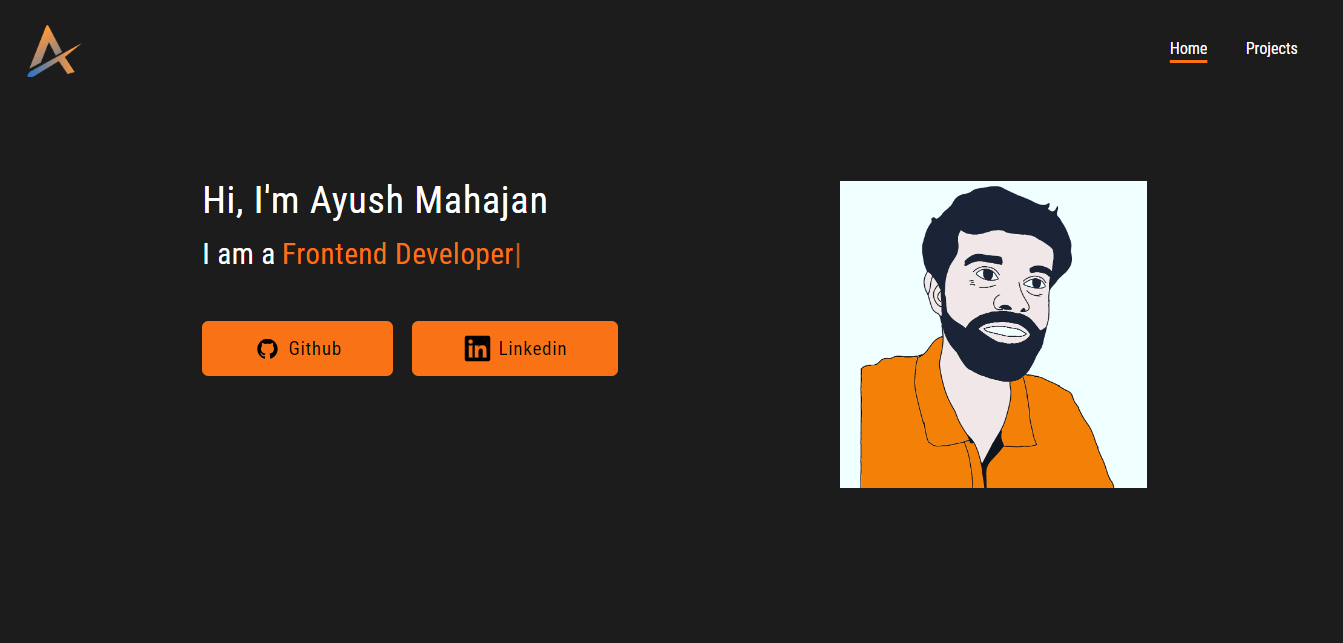
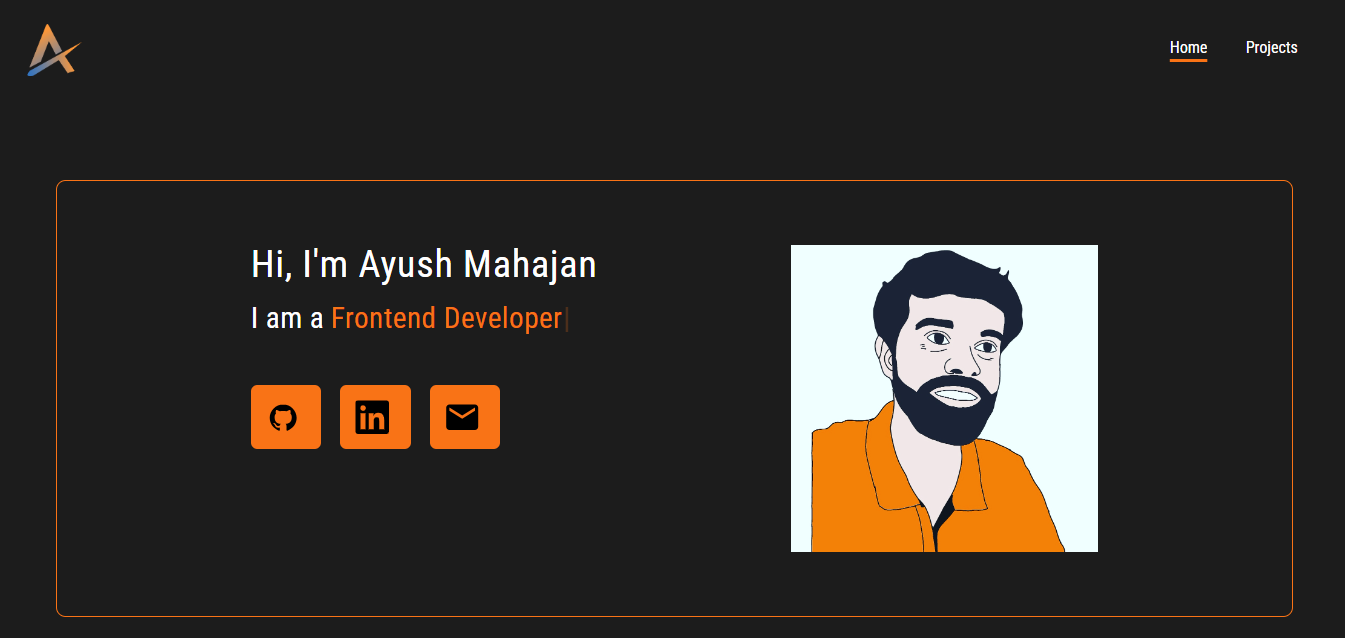
updated the home page and added a project.

diff --git a/src/components/Home.jsx b/src/components/Home.jsx
@@ -1,14 +1,16 @@
-import React from "react";
+import React, { useState } from "react";
 import AvatarImg from "../images/my-image.jpg";
 import Typewriter from "typewriter-effect";
 import { DiGithubBadge } from "react-icons/di";
 import { FaLinkedin } from "react-icons/fa";
+import { MdEmail } from "react-icons/md";
 import efficiencyimg from "../images/efficiency.png";
 import goalsimg from "../images/goals.png";
 import flexibilityimg from "../images/flexibility.png";
 import html from "../images/icons/html-icon.png";
 import css from "../images/icons/css-icon.png";
 import javaScript from "../images/icons/javascript-icon.png";
+import typescript from "../images/icons/typescript-icon.png";
 import react from "../images/icons/react-icon.png";
 import tailwind from "../images/icons/tailwindcss-icon.png";
 import api from "../images/icons/restapi-icon.png";
@@ -18,9 +20,32 @@ import vscode from "../images/icons/vscode-icon.png";
 import firebase from "../images/icons/firebase-icon.png";
 
 export default function Home() {
+  const [hover, setHover] = useState(false)
+  const [copyText, setCopyText] = useState("ayush.97mahajan@gmail.com")
+
+  const onHover = () => {
+    setHover(true)
+  }
+
+  const onHoverOver = () => {
+    setHover(false)
+  }
+
+  const handleClick = (e) => {
+    setCopyText(copyText)
+    console.log(copyText);
+    navigator.clipboard.writeText(copyText)
+
+    const copyEmail = document.createElement("div")
+    copyEmail.classList.add("py-1","px-4", "absolute", "-mt-28", "bg-orange-500", "text-black", "transition", "ease-in", "duration-700", "rounded-lg")
+    copyEmail.textContent = "copied"
+    e.target.appendChild(copyEmail)
+    setTimeout(()=> e.target.removeChild(copyEmail), 1000)
+  }
+  
   return (
     <>
-      <section className="text-white flex justify-evenly mt-24 max-md:flex max-md:flex-col max-md:items-center max-mdp:flex-col max-mdp:items-center">
+      <section className="text-white flex justify-evenly mt-24 max-md:flex max-md:flex-col max-md:items-center max-mdp:flex-col max-mdp:items-center border-2 border-orange-500 py-20 w-11/12 m-auto rounded-xl">
         <div>
           <div className="tracking-wider">
             <h1 className="text-5xl max-sm:text-3xl">Hi, I'm Ayush Mahajan</h1>
@@ -36,26 +61,37 @@ export default function Home() {
                 />
               </div>
             </div>
+
             <div className="flex items-center mt-16 max-md:mb-12 max-sm:flex-col">
               <a
-                className="bg-orange-500 text-black px-16 py-4 rounded-lg flex items-center text-2xl mr-6 relative z-10 before:absolute before:inset-0 before:bg-black before:-z-10 before:border-2 before:border-orange-500 before:border-solid before:rounded-lg before:origin-left before:scale-x-0 before:transition-transform before:hover:scale-x-100 hover:text-orange-500 max-sm:mb-8 max-sm:mr-0 max-sm:text-xl max-sm:px-10"
+                className="bg-orange-500 text-black rounded-lg px-4 py-4 mr-6 relative z-10 before:absolute before:inset-0 before:bg-black before:-z-10 before:border-2 before:border-orange-500 before:border-solid before:rounded-lg before:origin-left before:scale-x-0 before:transition-transform before:hover:scale-x-100 hover:text-orange-500 max-sm:mb-8 max-sm:mr-0 max-sm:text-xl max-sm:px-10 hover:scale-125"
                 href="https://github.com/Ayush1M"
                 target="_blank"
                 rel="noopener noreferrer"
-              >
-                <DiGithubBadge className="text-4xl mr-2" />
-                Github
+                >
+                <DiGithubBadge className="text-5xl mr-2"/>  
               </a>
 
               <a
-                className="bg-orange-500 text-black px-16 py-4 rounded-lg flex items-center text-2xl mr-6 relative z-10 before:absolute before:inset-0 before:bg-black before:-z-10 before:border-2 before:border-orange-500 before:border-solid before:rounded-lg before:origin-left before:scale-x-0 before:transition-transform before:hover:scale-x-100 hover:text-orange-500 max-sm:mr-0 max-sm:text-xl max-sm:px-8"
+                className="bg-orange-500 text-black rounded-lg px-4 py-4 mr-6 relative z-10 before:absolute before:inset-0 before:bg-black before:-z-10 before:border-2 before:border-orange-500 before:border-solid before:rounded-lg before:origin-left before:scale-x-0 before:transition-transform before:hover:scale-x-100 hover:text-orange-500 max-sm:mr-0 max-sm:text-xl max-sm:px-8 max-sm:mb-8 hover:scale-125"
                 href="https://www.linkedin.com/in/ayush-mahajan10"
                 target="_blank"
-                rel="noopener noreferrer"
-              >
-                <FaLinkedin className="text-4xl mr-2" />
-                Linkedin
+                rel="noopener noreferrer"               
+              >              
+                <FaLinkedin className="text-5xl mr-2" />
+               
               </a>
+
+              <p
+                className="cursor-pointer bg-orange-500 text-black rounded-lg px-4 py-4 mr-6 relative z-10 before:absolute before:inset-0 before:bg-black before:-z-10 before:border-2 before:border-orange-500 before:border-solid before:rounded-lg before:origin-left before:scale-x-0 before:transition-transform before:hover:scale-x-100 hover:text-orange-500 max-sm:mr-0 max-sm:text-xl max-sm:px-8 hover:scale-125"
+                onMouseEnter={() => onHover()}
+                onMouseLeave={() => onHoverOver()}
+                onClick={handleClick}               
+              >
+                {hover && <span className={`absolute mt-20 -ml-10 w-40 bg-orange-500 text-black px-2`}>
+                  copy email address</span>}              
+                <MdEmail className="text-5xl mr-2"/>
+              </p>
             </div>
           </div>
         </div>
@@ -119,7 +155,7 @@ export default function Home() {
             <img
               className="hover:animate-spin mb-6 max-sm:w-20"
               src={html}
-              alt=""
+              alt="html logo"
             />
             Html
           </p>
@@ -127,7 +163,7 @@ export default function Home() {
             <img
               className="hover:animate-spin mb-6 max-sm:w-20"
               src={css}
-              alt=""
+              alt="css logo"
             />
             CSS
           </p>
@@ -135,15 +171,23 @@ export default function Home() {
             <img
               className="hover:animate-spin mb-6 max-sm:w-20"
               src={javaScript}
-              alt=""
+              alt="javascript logo"
             />
             JavaScript
           </p>
           <p className="text-center text-xl mr-8">
             <img
               className="hover:animate-spin mb-6 max-sm:w-20"
+              src={typescript}
+              alt="typescript logo"
+            />
+            TypeScript
+          </p>
+          <p className="text-center text-xl mr-8">
+            <img
+              className="hover:animate-spin mb-6 max-sm:w-20"
               src={react}
-              alt=""
+              alt="react logo"
             />
             React
           </p>
@@ -151,7 +195,7 @@ export default function Home() {
             <img
               className="hover:animate-spin mb-6 max-sm:w-20"
               src={tailwind}
-              alt=""
+              alt="tailwind logo"
             />
             Tailwind CSS
           </p>
@@ -159,7 +203,7 @@ export default function Home() {
             <img
               className="hover:animate-spin mb-6 max-sm:w-20"
               src={api}
-              alt=""
+              alt="api logo"
             />
             RestAPI
           </p>
@@ -167,7 +211,7 @@ export default function Home() {
             <img
               className="hover:animate-spin mb-6 max-sm:w-20"
               src={github}
-              alt=""
+              alt="github logo"
             />
             Github
           </p>
@@ -175,7 +219,7 @@ export default function Home() {
             <img
               className="hover:animate-spin mb-6 max-sm:w-20"
               src={figma}
-              alt=""
+              alt="figma logo"
             />
             Figma
           </p>
@@ -183,7 +227,7 @@ export default function Home() {
             <img
               className="hover:animate-spin mb-6 max-sm:w-20"
               src={vscode}
-              alt=""
+              alt="vscode logo"
             />
             VSCode
           </p>
@@ -191,7 +235,7 @@ export default function Home() {
             <img
               className="hover:animate-spin mb-6 max-sm:w-20"
               src={firebase}
-              alt=""
+              alt="firebase logo"
             />
             Firebase
           </p>

diff --git a/src/components/Projects.jsx b/src/components/Projects.jsx
@@ -5,10 +5,13 @@ import project3 from "../projects/project-image-3.png";
 import project4 from "../projects/project-image-4.png";
 import project5 from "../projects/project-image-5.png";
 import project6 from "../projects/project-image-6.png";
+import project7 from "../projects/project-image-7.png";
 import react from "../images/icons/react-icon.png";
 import css from "../images/icons/css-icon.png";
 import html from "../images/icons/html-icon.png";
 import javaScript from "../images/icons/javascript-icon.png";
+import typescript from "../images/icons/typescript-icon.png";
+import tailwind from "../images/icons/tailwindcss-icon.png";
 import api from "../images/icons/restapi-icon.png";
 import { BsArrowRight } from "react-icons/bs";
 
@@ -19,6 +22,38 @@ export default function Projects() {
         My Work
       </h1>
       <section className="grid grid-cols-3 gap-8 w-11/12 mt-20 m-auto max-xl:grid-cols-2 max-md:grid-cols-1 max-md:min-w-5 max-sm:min-w-0">
+        <div className="border-2 border-orange-500 rounded-lg bg-black grid grid-cols-1">
+          <img className="rounded-t-lg" src={project7} alt="" />
+          <p className="text-white text-2xl mt-6 mx-4">
+            A Todo App consist of adding and deleting a todo, filtering todo in active or completed and dark/light mode.
+          </p>
+          <p className="flex items-center text-xl text-orange-500 ml-4 mt-8 max-s:text-lg">
+            Made with :{" "}
+            <img className="w-12 ml-4 max-s:w-8" src={react} alt="" />
+            <img className="w-12 max-s:w-8" src={typescript} alt="" />
+            <img className="w-10 max-s:w-8" src={tailwind} alt="" />
+          </p>
+          <div className="flex items-center ml-4 mt-10 mb-6 max-s:flex-col">
+            <a
+              className="bg-orange-500 text-black px-16 py-4 rounded-lg flex items-center justify-center w-1/5 text-2xl mr-6 relative z-10 before:absolute before:inset-0 before:bg-black before:-z-10 before:border-2 before:border-orange-500 before:border-solid before:rounded-lg before:origin-left before:scale-x-0 before:transition-transform before:hover:scale-x-100 hover:text-orange-500 max-s:mr-0 max-s:mb-4 max-s:text-xl max-s:px-12 max-s:py-2"
+              href="https://ayush-todo-app.netlify.app/"
+              target="_blank"
+              rel="noopener noreferrer"
+            >
+              Live
+            </a>
+
+            <a
+              className="bg-orange-500 text-black px-16 py-4 rounded-lg w-1/5 flex items-center justify-center text-2xl relative z-10 before:absolute before:inset-0 before:bg-black before:-z-10 before:border-2 before:border-orange-500 before:border-solid before:rounded-lg before:origin-left before:scale-x-0 before:transition-transform before:hover:scale-x-100 hover:text-orange-500 max-s:text-xl max-s:px-12 max-s:py-2"
+              href="https://github.com/Ayush1M/Todo-App"
+              target="_blank"
+              rel="noopener noreferrer"
+            >
+              Github
+            </a>
+          </div>
+        </div>
+
         <div className="border-2 border-orange-500 rounded-lg bg-black grid grid-cols-1">
           <img className="rounded-t-lg" src={project1} alt="" />
           <p className="text-white text-2xl mt-6 mx-4">
@@ -226,7 +261,7 @@ export default function Projects() {
           </div>
         </div>
       </section>
-      <div className=" text-center transition-all delay-200 my-24 ease-in-out hover:scale-150 w-7/12 m-auto max-xl:w-8/12 max-lg:w-9/12 max-mdp:w-10/12 max-sm:min-w-3">
+      <div className=" text-center transition-all delay-200 my-24 ease-in-out w-7/12 m-auto max-xl:w-8/12 max-lg:w-9/12 max-mdp:w-10/12 max-sm:min-w-3">
         <a
           className="text-4xl bg-orange-500 text-black p-4 rounded-lg m-auto flex items-center justify-center relative z-10 before:absolute before:inset-0 before:bg-black before:-z-10 before:border-2 before:border-orange-500 before:border-solid before:rounded-lg before:origin-left before:scale-x-0 before:transition-transform before:hover:scale-x-100 hover:text-white max-sm:text-3xl max-s:text-xl"
           href="https://github.com/Ayush1M?tab=repositories"
@@ -236,18 +271,6 @@ export default function Projects() {
           Check more of my work on my Github <BsArrowRight className="ml-4" />
         </a>
       </div>
-
-      <footer className="text-white py-20 text-center border-t-2 border-orange-500">
-        <h2 className="text-6xl mb-8 max-md:text-5xl max-sm:text-4xl max-s:text-3xl">
-          Sparked your Interest?
-        </h2>
-        <h3 className="text-4xl mb-4 max-sm:text-3xl max-s:text-2xl">
-          Let's Connect
-        </h3>
-        <p className="underline text-orange-500 text-3xl max-s:text-2xl">
-          ayush.97mahajan@gmail.com
-        </p>
-      </footer>
     </>
   );
 }
